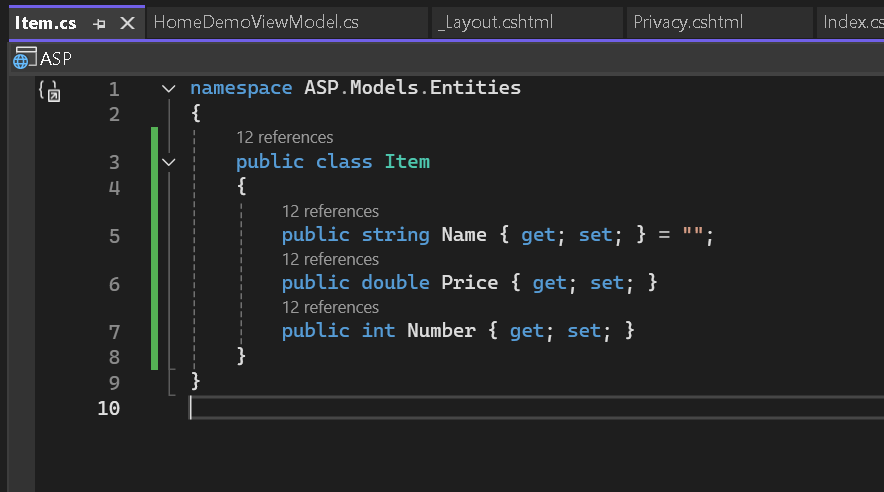
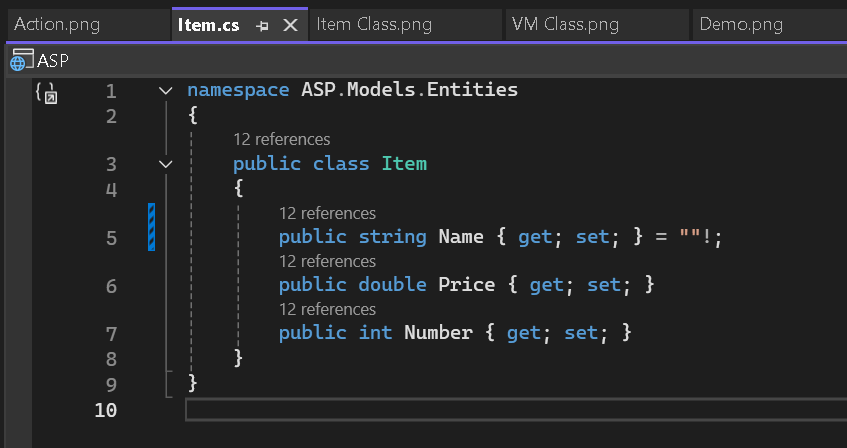
Minor change of HW-1

Changed region(s): [[0.0, 0.0, 1.0, 0.9375], [0.0921, 0.9062, 0.1535, 0.9375], [0.7367, 0.7188, 0.7674, 0.75]]

diff --git a/ASP/Models/Entities/Item.cs b/ASP/Models/Entities/Item.cs
@@ -2,7 +2,7 @@
 {
     public class Item
     {
-        public string Name { get; set; } = "";
+        public string Name { get; set; } = ""!; 
         public double Price { get; set; }
         public int Number { get; set; }
     }
